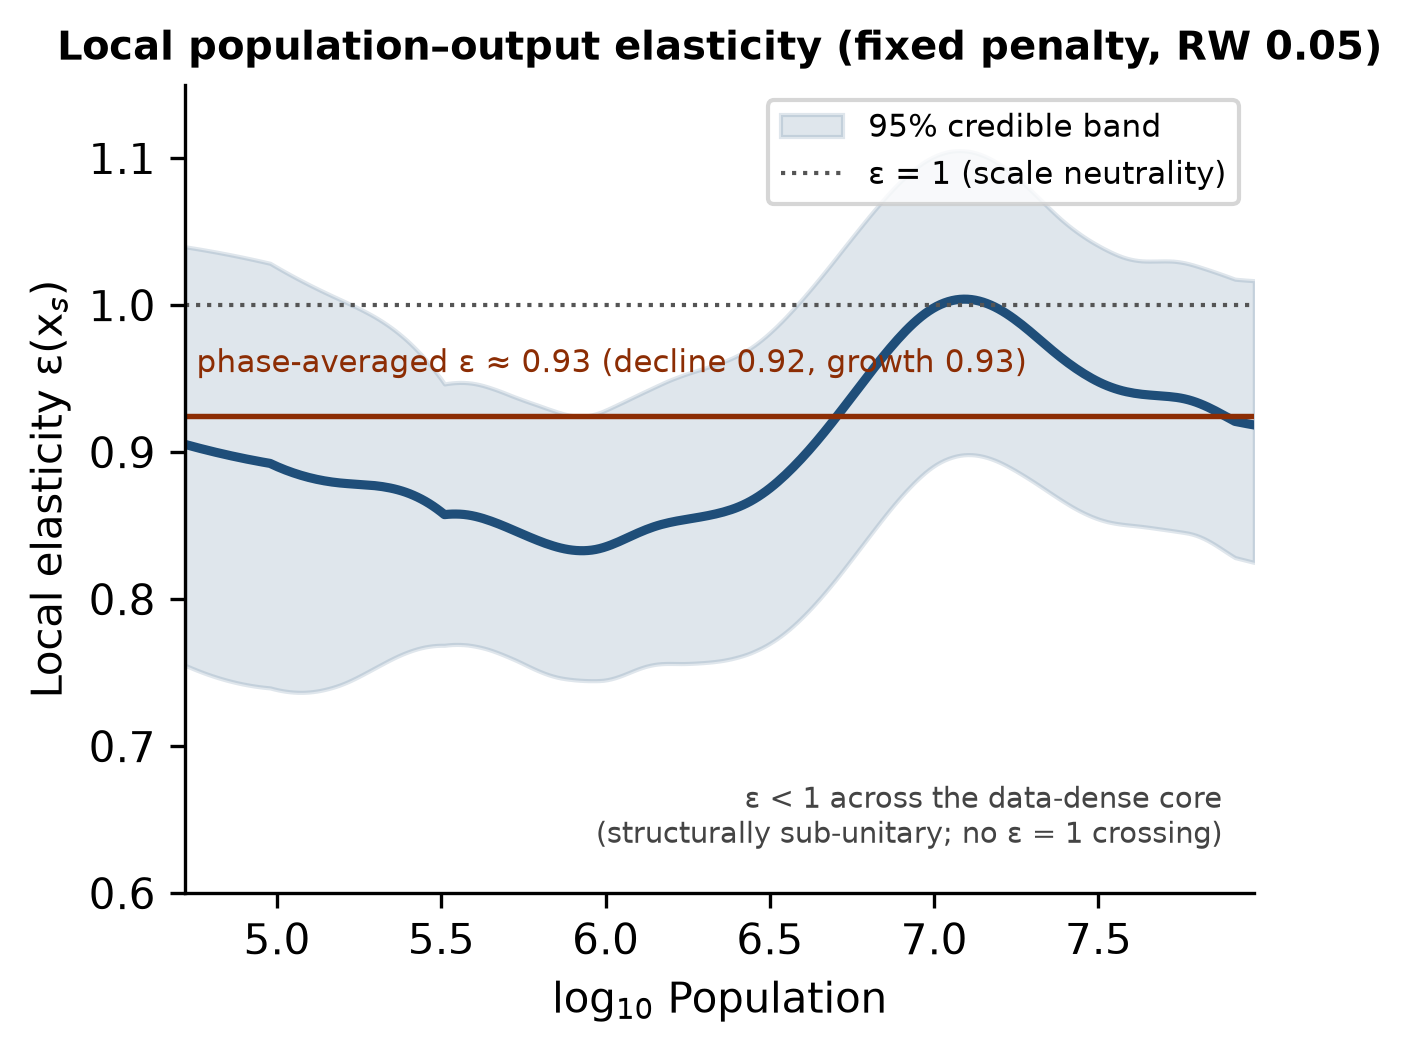
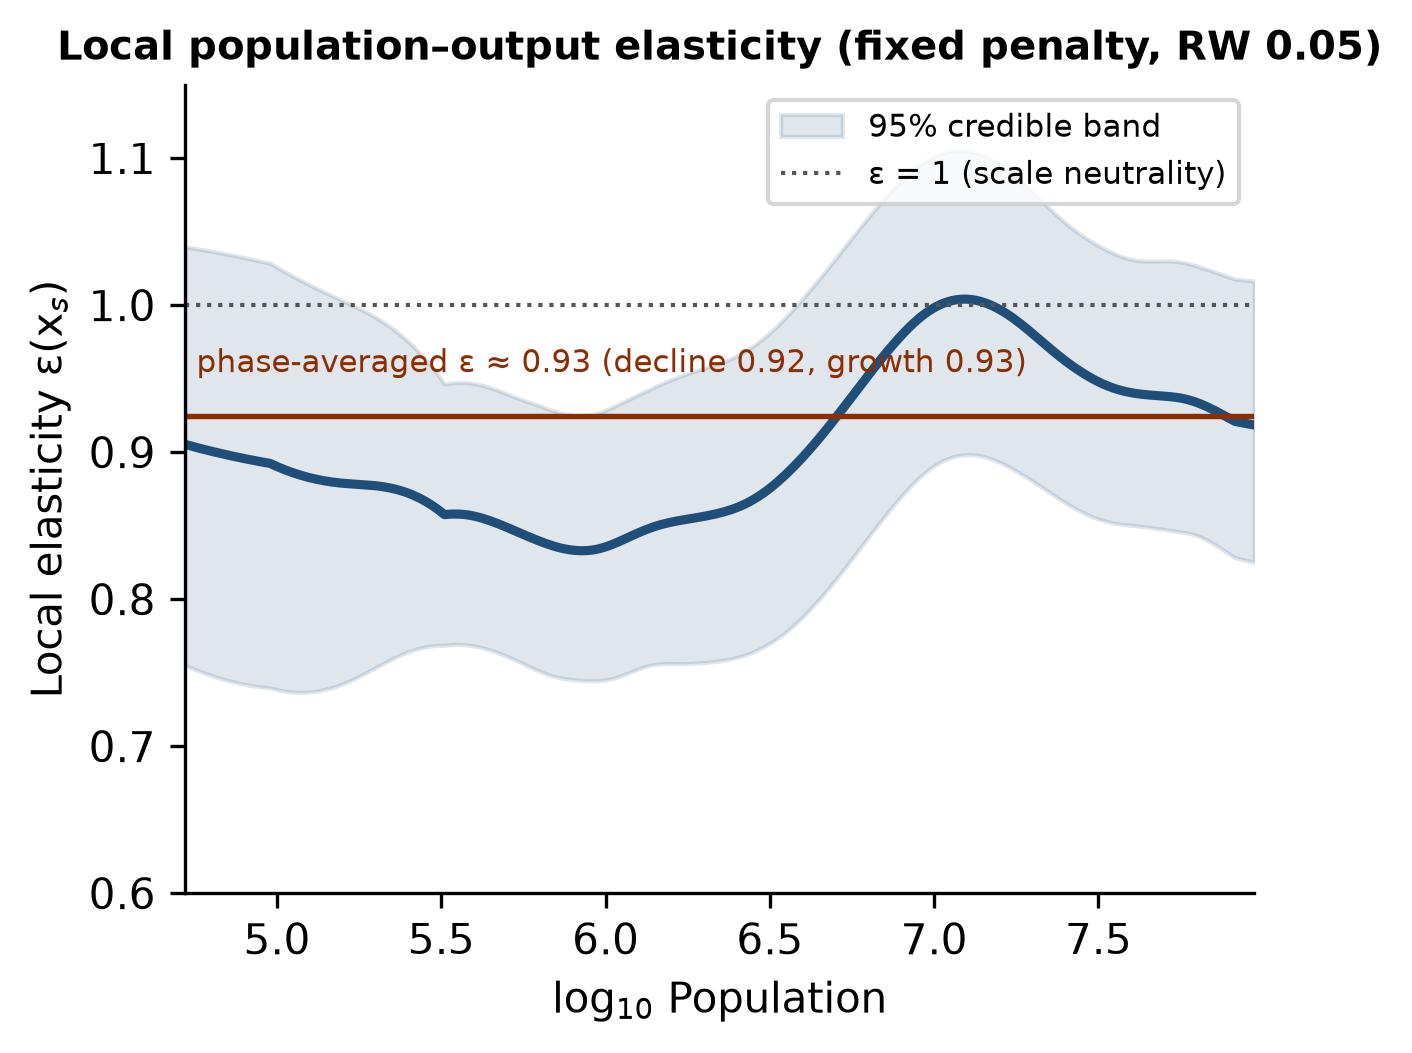
Supplementary Fig. S4: remove the in-figure note claiming no eps = 1 crossing
The nominal fixed-penalty curve rises briefly above unity in the middle of the core (core maximum 1.069 in results/levels_elasticity.json), so the note contradicted the plotted curve. The docstring and comment now give the phase averages as 0.92 and 0.93.

Changed region(s): [[0.4363, 0.7293, 0.8725, 0.8205]]

diff --git a/src/make_figureS4_fixed.py b/src/make_figureS4_fixed.py
@@ -1,12 +1,12 @@
 """Regenerate Supplementary Figure S4 (local population-output elasticity) from
 the FIXED, strongly-regularized spline posterior (RW SD = 0.05), so the figure
-matches its finalized caption: a smooth, structurally sub-unitary elasticity.
+matches its finalized caption: a smooth elasticity close to unity.
 
 NOTE ON SOURCE FILE: the directive named results/hierarchical_model_smoothed.nc,
 but that posterior in fact yields the *super-unitary* adaptive elasticity
 (decline mean = 1.22), i.e. it would reproduce the caption mismatch. The genuine
 fixed-penalty (RW 0.05) posterior that gives the smooth sub-unitary elasticity
-(decline = growth = 0.92) is trace_fixed005.nc - the file labelled
+(decline 0.92, growth 0.93) is trace_fixed005.nc - the file labelled
 "Fixed penalty (RW 0.05): e~0.92" in make_sensitivity_figure.py. This script
 therefore loads trace_fixed005.nc.
 
@@ -61,7 +61,7 @@ def basis(x, nu=0):
 #
 # NOTE: Supplementary Fig. S4 is DELIBERATELY the nominal fixed-penalty curve. The SI text
 # introduces it as "under the fixed first-difference penalty on the nominal series", quotes
-# 0.92 in both demographic phases, and ties that constant to the counterfactual projection run
+# 0.92 and 0.93 in the two demographic phases, and ties that constant to the counterfactual projection run
 # tagged _eps0.92. Re-pointing this figure at trace_fixed005_real.nc would contradict its own
 # caption. The argument below exists for sensitivity checks, not for the deposited figure.
 #   $env:GDP_COL="GDP_constant_2015usd"
@@ -130,8 +130,6 @@ ax.axhline(ed, color="#8c2d04", lw=1.3)
 ax.text(logpop[core][3], ed + 0.03,
         "phase-averaged ε ≈ %.2f (decline %.2f, growth %.2f)" % ((ed + eg) / 2, ed, eg),
         color="#8c2d04", fontsize=7.5)
-ax.text(0.97, 0.05, "ε < 1 across the data-dense core\n(structurally sub-unitary; no ε = 1 crossing)",
-        transform=ax.transAxes, ha="right", va="bottom", fontsize=7, color="#444")
 ax.set_ylim(min(0.6, e_smooth[core].min() - 0.1), max(1.15, e_smooth[core].max() + 0.1))
 ax.set_xlim(logpop[core].min(), logpop[core].max())
 ax.set_xlabel("log$_{10}$ Population")
